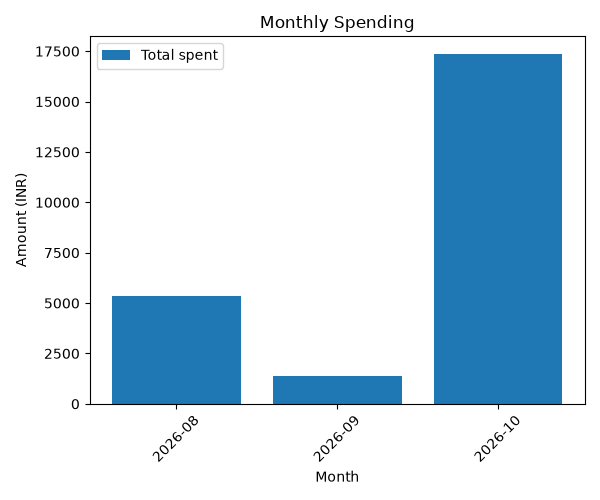
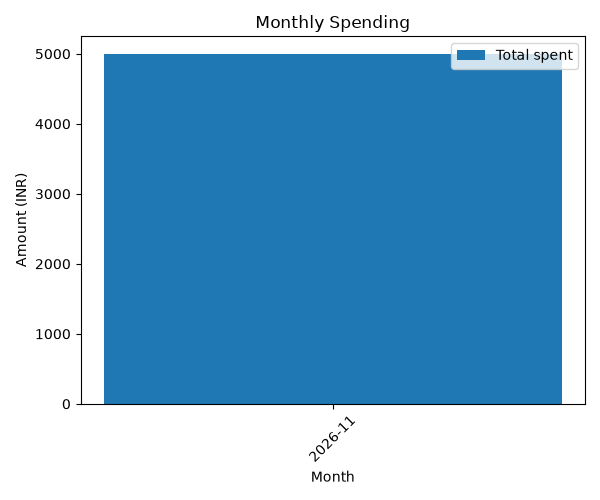
Configure TiDB cloud database connection

diff --git a/config.py b/config.py
@@ -8,4 +8,7 @@ DB_PORT = int(os.environ.get("DB_PORT", "3306"))
 DB_USER = os.environ.get("DB_USER", "root")
 DB_PASSWORD = os.environ.get("DB_PASSWORD")
 DB_NAME = os.environ.get("DB_NAME", "expense_tracker")
-DB_SSL_CA = os.environ.get("DB_SSL_CA")
+DB_SSL_CA = os.environ.get(
+    "DB_SSL_CA",
+    os.path.join(os.path.dirname(__file__), "certs", "isrgrootx1.pem")
+)

diff --git a/app.py b/app.py
@@ -50,7 +50,10 @@ def get_db():
         port=config.DB_PORT,
         user=config.DB_USER,
         password=config.DB_PASSWORD,
-        database=config.DB_NAME
+        database=config.DB_NAME,
+        ssl_ca=config.DB_SSL_CA,
+        ssl_verify_cert=True,
+        ssl_verify_identity=True
     )
 
 

diff --git a/export.py b/export.py
@@ -20,7 +20,10 @@ def get_db():
         port=config.DB_PORT,
         user=config.DB_USER,
         password=config.DB_PASSWORD,
-        database=config.DB_NAME
+        database=config.DB_NAME,
+        ssl_ca=config.DB_SSL_CA,
+        ssl_verify_cert=True,
+        ssl_verify_identity=True
     )
 
 

diff --git a/income.py b/income.py
@@ -24,7 +24,10 @@ def get_db():
         port=config.DB_PORT,
         user=config.DB_USER,
         password=config.DB_PASSWORD,
-        database=config.DB_NAME
+        database=config.DB_NAME,
+        ssl_ca=config.DB_SSL_CA,
+        ssl_verify_cert=True,
+        ssl_verify_identity=True
     )
 
 
